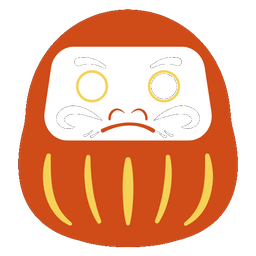
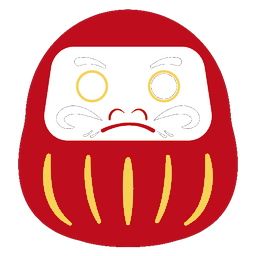
feat: ライト診断(/shindan)を追加／診断2種の結果下を共通部品(個別相談＋８日間メール)に／24項目からセミナー枠を外す／24項目のファビコンを赤に／メール登録先が未設定の間は該当枠を隠す

diff --git a/src/app/shindan/page.tsx b/src/app/shindan/page.tsx
@@ -1,0 +1,153 @@
+"use client";
+
+import { useState } from "react";
+import { RotateCcw, ArrowRight } from "lucide-react";
+import ConsultCta from "@/components/ConsultCta";
+import { QUESTIONS, PROFILE_QUESTIONS, judge, type TypeKey } from "./scoring";
+
+
+export default function ShindanPage() {
+  const [checked, setChecked] = useState<Set<TypeKey>>(new Set());
+  const [profile, setProfile] = useState<Record<string, string>>({});
+  const [done, setDone] = useState(false);
+
+  const toggle = (k: TypeKey) =>
+    setChecked((prev) => {
+      const next = new Set(prev);
+      if (next.has(k)) next.delete(k);
+      else next.add(k);
+      return next;
+    });
+
+  const result = judge(checked);
+
+  return (
+    <main className="min-h-screen bg-slate-50 text-slate-800">
+      <div className="mx-auto max-w-xl px-4 py-8 sm:py-12">
+        <header className="mb-8 text-center">
+          <p className="mb-2 text-xs font-semibold tracking-widest text-amber-700">
+            なんだか毎日、忙しい。そんなあなたへ
+          </p>
+          <h1 className="mb-3 text-2xl font-bold leading-snug sm:text-3xl">
+            なんで忙しいんだろう？
+            <br />
+            の原因を探します
+          </h1>
+          <p className="text-sm leading-relaxed text-slate-500">
+            当てはまるものにチェックを入れてください
+            <br />
+            （５つ・約１分）
+          </p>
+        </header>
+
+        {!done ? (
+          <>
+            <section className="mb-6">
+              <div className="overflow-hidden rounded-xl border border-slate-200 bg-white">
+                {QUESTIONS.map((q) => {
+                  const on = checked.has(q.key);
+                  return (
+                    <label
+                      key={q.key}
+                      className={`flex cursor-pointer items-start gap-3 border-b border-slate-100 p-4 text-sm leading-relaxed transition-colors last:border-b-0 ${
+                        on ? "bg-amber-50" : "hover:bg-slate-50"
+                      }`}
+                    >
+                      <input
+                        type="checkbox"
+                        checked={on}
+                        onChange={() => toggle(q.key)}
+                        className="mt-0.5 h-5 w-5 shrink-0 accent-amber-600"
+                      />
+                      <span>{q.text}</span>
+                    </label>
+                  );
+                })}
+              </div>
+            </section>
+
+            <section className="mb-6 rounded-xl border border-slate-200 bg-white p-4">
+              <h2 className="mb-3 border-l-4 border-amber-600 pl-3 text-sm font-bold text-slate-700">
+                あわせて教えてください（任意）
+              </h2>
+              {PROFILE_QUESTIONS.map((pq) => (
+                <div key={pq.key} className="mb-3 last:mb-0">
+                  <p className="mb-1 text-xs text-slate-500">{pq.title}</p>
+                  <div className="flex flex-wrap gap-2">
+                    {pq.options.map((opt) => {
+                      const on = profile[pq.key] === opt;
+                      return (
+                        <button
+                          key={opt}
+                          type="button"
+                          onClick={() => setProfile((p) => ({ ...p, [pq.key]: opt }))}
+                          className={`rounded-full border px-4 py-1.5 text-sm transition-colors ${
+                            on
+                              ? "border-amber-600 bg-amber-50 font-bold text-amber-800"
+                              : "border-slate-300 bg-white text-slate-600 hover:bg-slate-50"
+                          }`}
+                        >
+                          {opt}
+                        </button>
+                      );
+                    })}
+                  </div>
+                </div>
+              ))}
+            </section>
+
+            <div className="sticky bottom-4 mt-8">
+              <button
+                onClick={() => {
+                  setDone(true);
+                  if (typeof window !== "undefined") window.scrollTo({ top: 0, behavior: "smooth" });
+                }}
+                className="flex w-full items-center justify-center gap-2 rounded-full bg-slate-800 py-4 text-base font-bold text-white shadow-lg transition-transform hover:scale-[1.01] active:scale-[0.99]"
+              >
+                結果を見る
+                <ArrowRight className="h-5 w-5" />
+              </button>
+            </div>
+          </>
+        ) : (
+          <>
+            <section className="mb-6 rounded-2xl border border-slate-200 bg-white p-6 text-center shadow-sm">
+              {result.label && (
+                <>
+                  <p className="mb-1 text-sm text-slate-500">忙しさの正体は</p>
+                  <p className="mb-4 text-xl font-bold text-amber-700">{result.label}</p>
+                </>
+              )}
+              {result.hint && (
+                <div className="mb-4 rounded-xl bg-amber-50 p-4 text-left">
+                  <p className="mb-1 text-xs font-bold text-amber-700">整えると楽になりそうなところ</p>
+                  <p className="text-sm leading-relaxed text-slate-700">{result.hint}</p>
+                </div>
+              )}
+              <p className="text-sm leading-relaxed text-slate-600">{result.message}</p>
+            </section>
+
+            <ConsultCta />
+
+            <button
+              onClick={() => {
+                setChecked(new Set());
+                setProfile({});
+                setDone(false);
+                if (typeof window !== "undefined") window.scrollTo({ top: 0 });
+              }}
+              className="mx-auto flex items-center gap-2 rounded-full border border-slate-300 bg-white px-5 py-2 text-sm text-slate-600 hover:bg-slate-50"
+            >
+              <RotateCcw className="h-4 w-4" />
+              もう一度診断する
+            </button>
+          </>
+        )}
+
+        <footer className="mt-10 text-center text-xs text-slate-400">
+          2026 © なんで忙しいんだろう？がわかる診断
+        </footer>
+      </div>
+    </main>
+  );
+}

diff --git a/src/app/shindan/scoring.ts b/src/app/shindan/scoring.ts
@@ -1,0 +1,66 @@
+// なんで忙しいんだろう？がわかる診断（ライト診断）
+// 正本: コンサル事業/29_再設計案_ライト診断と個別相談_20261101.md の3章（2026-11-02確定）
+
+export type TypeKey = "renraku" | "hasshin" | "joho" | "okane" | "jibun";
+
+export const QUESTIONS: { key: TypeKey; text: string }[] = [
+  { key: "renraku", text: "予約の確認・リマインド・キャンセル連絡に、毎週かなり時間を使っている" },
+  { key: "hasshin", text: "SNSの投稿づくりに、毎回１時間以上かかっている" },
+  { key: "joho", text: "お客さまの情報が、紙・スマホ・頭の中に散らばっている" },
+  { key: "okane", text: "忙しいのに、月末にお金が残っている実感がない" },
+  { key: "jibun", text: "自分が休むと、お店が止まる" },
+];
+
+// あわせて聞く３問（選ぶだけ・結果には影響しない）
+export const PROFILE_QUESTIONS: { key: string; title: string; options: string[] }[] = [
+  { key: "gyoshu", title: "業種", options: ["サロン", "飲食", "小売", "スタジオ", "その他"] },
+  { key: "yoyaku", title: "予約システムを使っていますか", options: ["はい", "いいえ"] },
+  { key: "ninzu", title: "一緒に働いている人は何人ですか", options: ["自分だけ", "１人", "２人以上"] },
+];
+
+export type Result = { label: string | null; hint: string | null; message: string };
+
+const HINTS: Record<TypeKey, { label: string; hint: string }> = {
+  renraku: {
+    label: "連絡に追われているタイプ",
+    hint: "お客さまとのやりとりに、時間と気持ちを取られているようです。ここは、改善の余地が大きいところです。",
+  },
+  hasshin: {
+    label: "発信に時間を取られているタイプ",
+    hint: "発信に、思った以上の時間をかけていませんか。フォーマットを決めることで、グッと楽になることがあります。",
+  },
+  joho: {
+    label: "情報が散らばっているタイプ",
+    hint: "お客さまの情報が、あちこちにあるようです。まず一か所にまとまるだけで、見える景色が変わります。",
+  },
+  okane: {
+    label: "お金の見通しが見えていないタイプ",
+    hint: "お金の出と入りを、ちゃんと把握していますか。数字を知ることは、あなたの味方になります。",
+  },
+  jibun: {
+    label: "自分が止まると止まるタイプ",
+    hint: "あなたにばかり仕事が集中しているようです。手を放す方法を整えていきましょう。",
+  },
+};
+
+export const CLOSING =
+  "忙しさの原因は、いくつも複雑に絡み合っています。一度きちんと整理しましょう。";
+
+export function judge(checked: Set<TypeKey>): Result {
+  if (checked.size === 0) {
+    return {
+      label: null,
+      hint: null,
+      message: "基盤ができています。何かご相談の際は是非ご連絡ください。",
+    };
+  }
+  if (checked.size === 1) {
+    const k = [...checked][0];
+    return { label: HINTS[k].label, hint: HINTS[k].hint, message: CLOSING };
+  }
+  return {
+    label: "あれもこれも重なっているタイプ",
+    hint: null,
+    message: CLOSING,
+  };
+}

diff --git a/src/components/ConsultCta.tsx b/src/components/ConsultCta.tsx
@@ -1,0 +1,54 @@
+"use client";
+
+import { CheckCircle2, Mail } from "lucide-react";
+
+// 診断ページ（/shindan・/sotsugyo）の結果の下に出す共通部分。直すときはここだけ直す（2026-11-03）。
+// 個別相談の申込先（AutoBizの経営相談申込フォーム）
+export const CONSULT_URL = "https://88auto.biz/andsteady/registp/soudan.htm";
+// ８日間メール（小さなお店の経営８つの心得　令和版）の登録先。【仮】AutoBizの登録ページができたら差し替える。
+export const MAIL_URL = "#";
+
+export default function ConsultCta({ onConsultClick }: { onConsultClick?: () => void }) {
+  return (
+    <>
+      <section className="mb-6 rounded-2xl bg-slate-800 p-6 text-center text-white">
+        <h3 className="mb-2 text-base font-bold">個別相談（60分・9,800円）</h3>
+        <p className="mb-4 text-sm leading-relaxed text-slate-300">
+          あなたが「何だか、いつも、忙しい」原因を
+          <br />
+          一緒に洗い出し、整理します。
+        </p>
+        <a
+          href={CONSULT_URL}
+          target="_blank"
+          rel="noopener noreferrer"
+          onClick={onConsultClick}
+          className="inline-flex items-center gap-2 rounded-full bg-amber-500 px-6 py-3 text-sm font-bold text-slate-900 transition-transform hover:scale-105"
+        >
+          <CheckCircle2 className="h-4 w-4" />
+          個別相談を申し込む
+        </a>
+      </section>
+
+      {/* 登録ページのURLが入るまでは、押しても進まないボタンを出さないよう枠ごと隠す */}
+      {MAIL_URL !== "#" && MAIL_URL !== "" && (
+      <section className="mb-6 rounded-2xl border border-slate-200 bg-white p-5 text-center">
+        <p className="mb-1 text-xs font-bold text-slate-500">もう少し学んでみたいあなたは</p>
+        <h3 className="mb-2 text-sm font-bold leading-snug text-slate-800">
+          小さなお店の経営８つの心得　令和版
+        </h3>
+        <p className="mb-4 text-xs leading-relaxed text-slate-500">
+          ８日にわたってお届けしています（無料）
+        </p>
+        <a
+          href={MAIL_URL}
+          className="inline-flex items-center gap-2 rounded-full border border-slate-300 bg-white px-5 py-2 text-sm font-bold text-slate-700 hover:bg-slate-50"
+        >
+          <Mail className="h-4 w-4" />
+          メールで受け取る
+        </a>
+      </section>
+      )}
+    </>
+  );
+}

diff --git a/src/app/sotsugyo/page.tsx b/src/app/sotsugyo/page.tsx
@@ -2,6 +2,7 @@
 
 import { useEffect, useState } from "react";
 import { RotateCcw, ArrowRight, CheckCircle2, Mail } from "lucide-react";
+import ConsultCta from "@/components/ConsultCta";
 import { SECTIONS, TOTAL, tier } from "./scoring";
 
 // ページ表示・チェック開始・各CTAクリックを匿名で記録する（お客様体験はブロックしない）。
@@ -15,8 +16,6 @@ function trackEvent(eventType: "page_view" | "started" | "cta_seminar" | "cta_co
 
 // 相談導線（note 仕事のご依頼ページ）
 const CTA_URL = "https://note.com/onozaki_noriko/n/n8379446cf997";
-// セミナー導線（なんだか忙しい社長の仕組化支援セミナー。日程はLP側で随時更新のため、ここには具体日程を書かない）
-const SEMINAR_URL = "https://meguri168.com/shikumika-seminar";
 // 詳細診断の申込導線（AutoBiz。名前・メールはAutoBizのリストへ直接入る）
 const DETAIL_DIAGNOSIS_URL = "https://88auto.biz/andsteady/registp/sotsugyo-shindan.htm";
 
@@ -162,28 +161,7 @@ export default function SotsugyoPage() {
             </section>
 
             {/* セミナー導線 */}
-            <section className="mb-6 rounded-2xl border-2 border-amber-500 bg-amber-50 p-6 text-center">
-              <p className="mb-2 text-xs font-bold tracking-wide text-amber-700">
-                オンラインセミナー開催
-              </p>
-              <h3 className="mb-3 text-base font-bold leading-snug text-slate-800">
-                なんだか忙しい社長の仕組化支援セミナー
-              </h3>
-              <p className="mb-4 text-sm leading-relaxed text-slate-600">
-                浅草の靴メーカーを経営する社長が、実際に事業を整理した事例をそのままお話しします。
-                <br />
-                好評につき、随時開催中／参加費3,000円
-              </p>
-              <a
-                href={SEMINAR_URL}
-                target="_blank"
-                rel="noopener noreferrer"
-                onClick={() => trackEvent("cta_seminar")}
-                className="inline-flex items-center gap-2 rounded-full bg-slate-800 px-6 py-3 text-sm font-bold text-white transition-transform hover:scale-105"
-              >
-                セミナーの詳細を見る
-              </a>
-            </section>
+            <ConsultCta onConsultClick={() => trackEvent("cta_consult")} />
 
             {/* CTA */}
             {count >= 5 && (

diff --git a/src/app/shindan/layout.tsx b/src/app/shindan/layout.tsx
@@ -1,0 +1,15 @@
+import type { Metadata } from "next";
+
+export const metadata: Metadata = {
+  title: "なんで忙しいんだろう？がわかる診断",
+  description:
+    "なんで忙しいんだろう？の原因を探します。５つのチェックで、約１分。",
+};
+
+export default function ShindanLayout({
+  children,
+}: {
+  children: React.ReactNode;
+}) {
+  return <>{children}</>;
+}
